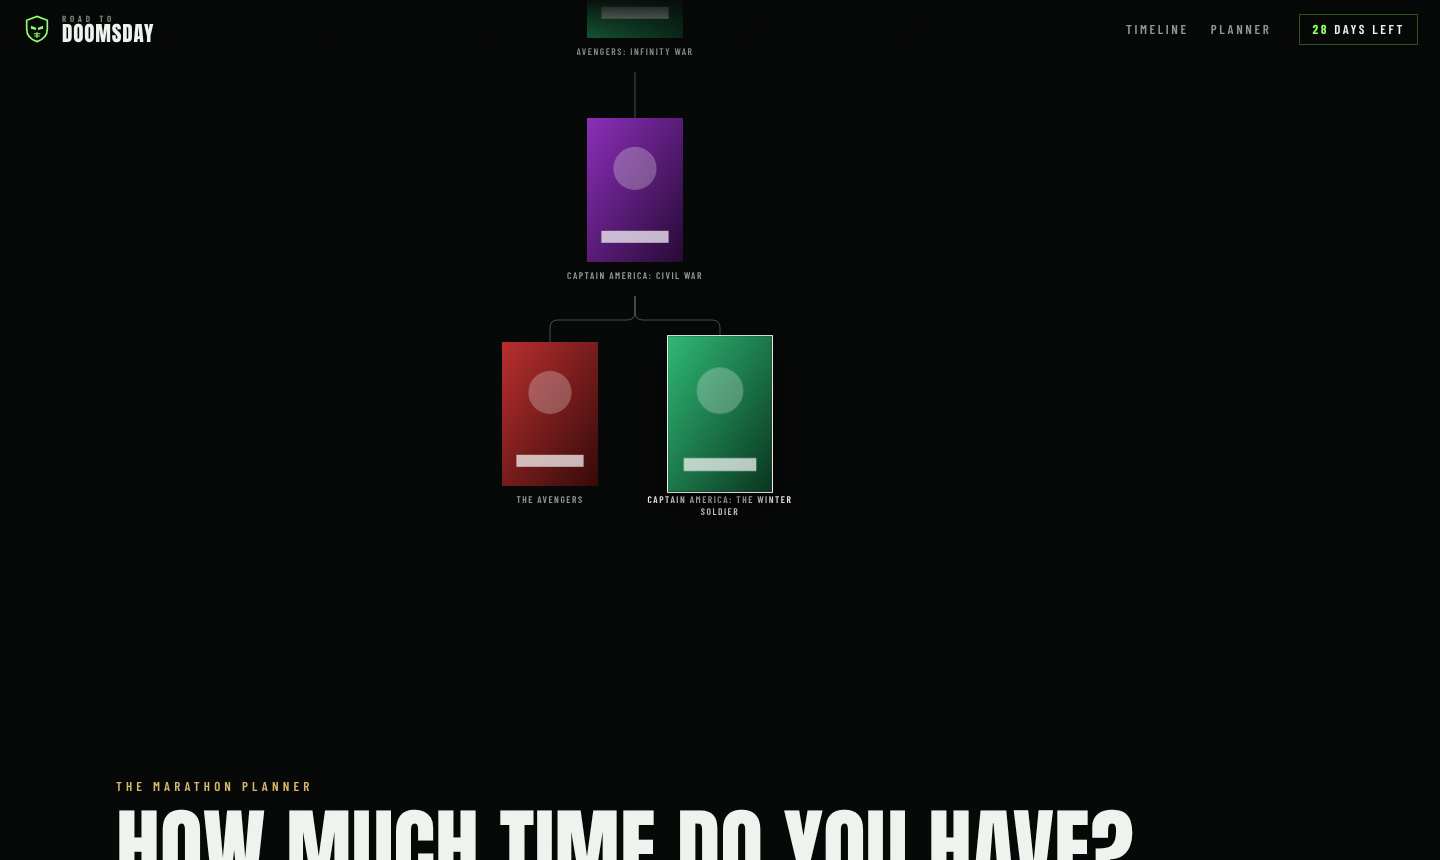
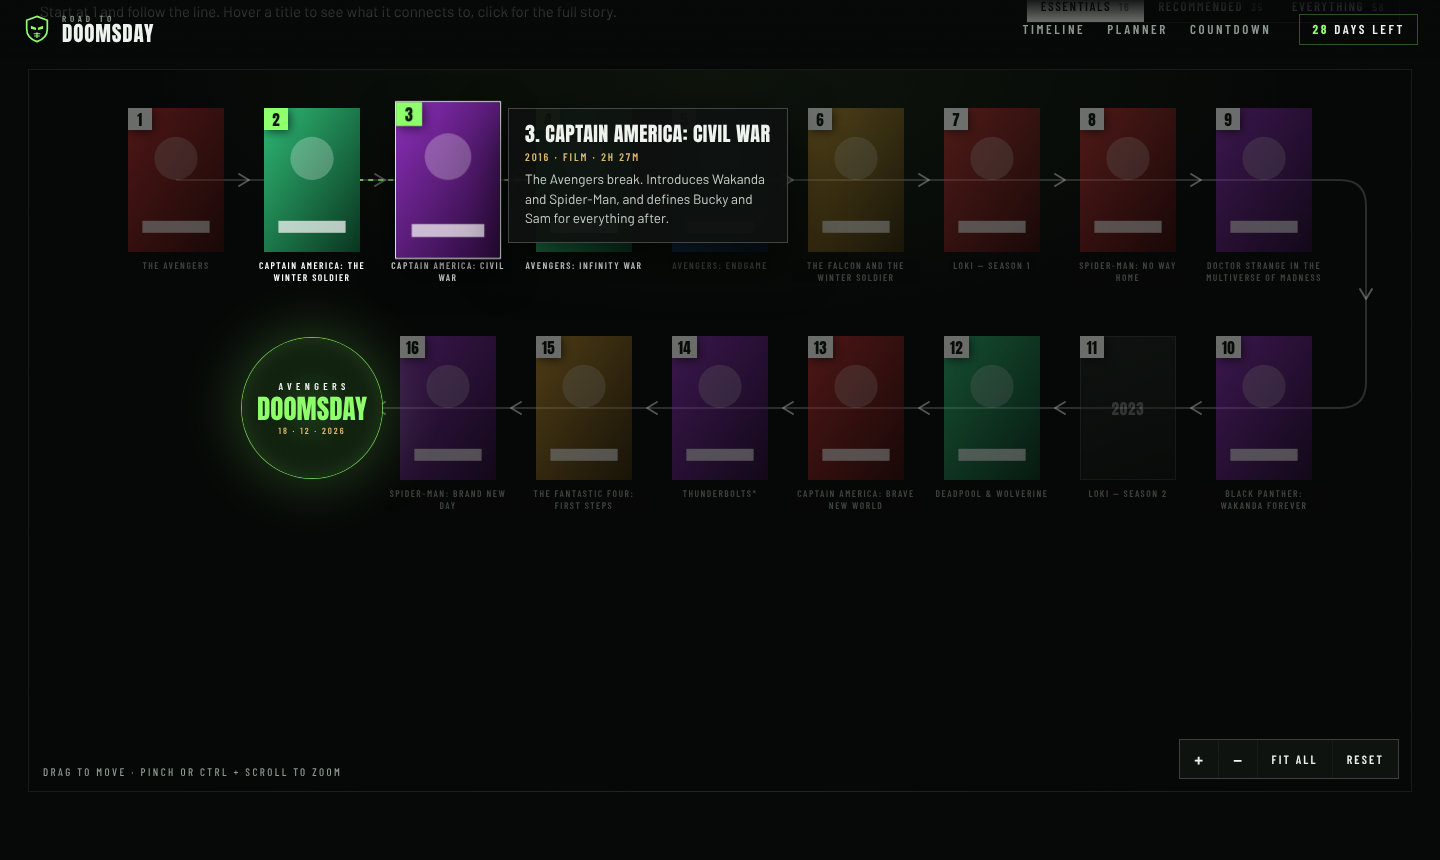
Map is now one numbered road in watch order; story links on hover
Claude-Session: https://claude.ai/code/session_017rtG2dztGkZ4S7sDU2kgCq

diff --git a/src/components/TimelineMap.tsx b/src/components/TimelineMap.tsx
@@ -1,5 +1,5 @@
 import { useEffect, useLayoutEffect, useMemo, useRef, useState } from "react";
-import { BY_ID, DOOM_ID, NEXT, TITLES, Title, fmtMin } from "../data";
+import { BY_ID, DOOM_ID, TITLES, Title, fmtMin, parentsOf } from "../data";
 import type { Tier } from "../App";
 import { Poster, usePosters } from "../posters";
 
@@ -18,22 +18,28 @@ const VIEWS: { tier: Tier; label: string }[] = [
   { tier: "recommended", label: "Recommended" },
   { tier: "all", label: "Everything" },
 ];
-const ORDER = Object.fromEntries(TITLES.map((t, i) => [t.id, i]));
 const tierFor = (t: Title): Tier => (t.imp >= 7 ? "essential" : t.imp >= 4 ? "recommended" : "all");
 
-function useViewport() {
-  const [v, setV] = useState({ w: window.innerWidth, h: window.innerHeight });
-  useEffect(() => {
-    const on = () => setV({ w: window.innerWidth, h: window.innerHeight });
-    window.addEventListener("resize", on);
-    return () => window.removeEventListener("resize", on);
-  }, []);
-  return v;
+const LEAF_W = 136, PW = 96, PH = 144, LABEL = 34;
+const ROW_H = PH + LABEL + 50;
+const SIDE = 46; // room at each edge for the road to turn around
+const DOOM_R = 70;
+
+function useStageWidth(ref: React.RefObject<HTMLDivElement>) {
+  const [w, setW] = useState(1200);
+  useLayoutEffect(() => {
+    const el = ref.current!;
+    const ro = new ResizeObserver(() => setW(el.clientWidth));
+    ro.observe(el);
+    setW(el.clientWidth);
+    return () => ro.disconnect();
+  }, [ref]);
+  return w;
 }
 
 type Pt = [number, number];
-/** A right-angled connector through `pts`, with softened corners. */
-function elbow(pts: Pt[], r = 8) {
+/** A path through `pts` with rounded corners. */
+function rounded(pts: Pt[], r: number) {
   let d = `M${pts[0][0]} ${pts[0][1]}`;
   for (let i = 1; i < pts.length - 1; i++) {
     const [px, py] = pts[i - 1], [cx, cy] = pts[i], [nx, ny] = pts[i + 1];
@@ -47,8 +53,9 @@ function elbow(pts: Pt[], r = 8) {
 }
 
 export function TimelineMap({ selected, focus, onSelect, watched, tier, setTier }: Props) {
-  const vp = useViewport();
   const posters = usePosters();
+  const stage = useRef<HTMLDivElement>(null);
+  const stageW = useStageWidth(stage);
   const [hover, setHover] = useState<string | null>(null);
   const [card, setCard] = useState<{ id: string; x: number; y: number; flip: boolean } | null>(null);
   const enter = (id: string, el: HTMLElement) => {
@@ -63,89 +70,53 @@ export function TimelineMap({ selected, focus, onSelect, watched, tier, setTier 
     return () => window.removeEventListener("scroll", leave);
   }, []);
 
-  // ── Build the tree for this view ─────────────────────────────────────────
-  // Doomsday is the root on the right. Each title hangs off the next title on
-  // its road to Doomsday that is visible in this view.
-  const T = useMemo(() => {
-    const visible = new Set(
-      TITLES.filter((t) => t.id === DOOM_ID || (t.imp >= MIN_IMP[tier] && NEXT[t.id])).map((t) => t.id)
-    );
-    const parent: Record<string, string> = {};
-    const kids: Record<string, string[]> = {};
-    for (const id of visible) {
-      if (id === DOOM_ID) continue;
-      let n = NEXT[id];
-      while (n && !visible.has(n)) n = NEXT[n];
-      parent[id] = n || DOOM_ID;
-      (kids[parent[id]] ||= []).push(id);
-    }
-    for (const k of Object.values(kids)) k.sort((a, b) => ORDER[a] - ORDER[b]);
-
-    // Depth-first: leaves take the next free row, parents sit between their children.
-    const row: Record<string, number> = {};
-    const dist: Record<string, number> = { [DOOM_ID]: 0 };
-    let rows = 0, maxDist = 0;
-    const place = (id: string) => {
-      const c = kids[id] || [];
-      for (const k of c) { dist[k] = dist[id] + 1; maxDist = Math.max(maxDist, dist[k]); place(k); }
-      row[id] = c.length ? (row[c[0]] + row[c[c.length - 1]]) / 2 : rows++;
-    };
-    place(DOOM_ID);
-
-    const side = tier === "all" ? TITLES.filter((t) => t.id !== DOOM_ID && !NEXT[t.id]) : [];
-    // Watch order: release order among the titles shown in this view.
-    const num: Record<string, number> = {};
-    let n = 0;
-    for (const t of TITLES) if (t.id !== DOOM_ID && visible.has(t.id)) num[t.id] = ++n;
-    return { visible, parent, row, dist, rows, cols: maxDist + 1, side, num };
-  }, [tier]);
-
-  // ── Sizes ────────────────────────────────────────────────────────────────
-  // The tree grows upward: Doomsday at the top, each road climbing to it.
+  // ── The road ─────────────────────────────────────────────────────────────
+  // One line, in watch order: 1 → 2 → 3 … → Doomsday. It runs left to right,
+  // turns at the edge, and comes back on the next row.
   const G = useMemo(() => {
-    // Fixed sizes: the canvas is zoomed to fit, the tree is not squeezed.
-    const leafW = 132;
-    const pw = 96;
-    const ph = Math.round(pw * 1.5);
-    const label = 34; // room for two lines of title under a poster
-    const levelH = ph + label + 46;
-    const doomR = 78;
-    const top = doomR * 2 + 50;
-    const width = leafW * T.rows;
-    const height = top + levelH * (T.cols - 1);
-    const x = (id: string) => T.row[id] * leafW + leafW / 2;
-    // y is the top edge of a poster (for Doomsday, the centre of the circle).
-    const y = (id: string) => (id === DOOM_ID ? doomR + 4 : top + (T.dist[id] - 1) * levelH);
-    return { pw, ph, label, levelH, doomR, width, height, x, y, leafW };
-  }, [T]);
+    const list = TITLES.filter((t) => t.id !== DOOM_ID && t.imp >= MIN_IMP[tier]);
+    const stops = [...list.map((t) => t.id), DOOM_ID];
+    const cols = Math.max(3, Math.min(9, Math.floor((stageW - 56 - SIDE * 2) / LEAF_W)));
+    const cell = (i: number) => {
+      const r = Math.floor(i / cols), c = i % cols;
+      return { r, c: r % 2 ? cols - 1 - c : c };
+    };
+    const cx = (i: number) => SIDE + cell(i).c * LEAF_W + LEAF_W / 2;
+    const cy = (i: number) => cell(i).r * ROW_H + PH / 2 + 10; // middle of the poster
+    const rows = cell(stops.length - 1).r + 1;
+    const width = SIDE * 2 + cols * LEAF_W;
+    const height = rows * ROW_H;
 
-  // ── Highlight: a title's own road to Doomsday ────────────────────────────
+    // The line through every stop, looping round the edge between rows.
+    const pts: Pt[] = [];
+    const arrows: { x: number; y: number; a: number }[] = [];
+    for (let i = 0; i < stops.length; i++) {
+      pts.push([cx(i), cy(i)]);
+      if (i === stops.length - 1) break;
+      if (cell(i + 1).r === cell(i).r) {
+        arrows.push({ x: (cx(i) + cx(i + 1)) / 2, y: cy(i), a: cell(i).r % 2 ? 180 : 0 });
+      } else {
+        const edge = cell(i).r % 2 ? 12 : width - 12;
+        pts.push([edge, cy(i)], [edge, cy(i + 1)]);
+        arrows.push({ x: edge, y: (cy(i) + cy(i + 1)) / 2, a: 90 });
+      }
+    }
+    const index = Object.fromEntries(stops.map((id, i) => [id, i]));
+    return { list, stops, index, cx, cy, width, height, d: rounded(pts, 26), arrows };
+  }, [tier, stageW]);
+
+  // ── Hover: what this title connects to in the story ──────────────────────
   const active = hover ?? selected;
-  const road = useMemo(() => {
-    if (!active || !T.visible.has(active)) return null;
-    const s = new Set<string>();
-    for (let n: string | undefined = active; n; n = T.parent[n]) s.add(n);
-    return s;
-  }, [active, T]);
-
-  // ── Being sent to a title from the drawer ────────────────────────────────
-  useEffect(() => {
-    if (!focus) return;
-    const t = BY_ID[focus.id];
-    const need: Tier = !NEXT[t.id] && t.id !== DOOM_ID ? "all" : tierFor(t);
-    if (MIN_IMP[need] < MIN_IMP[tier]) { setTier(need); return; }
-    const el = stage.current;
-    if (!el || !T.visible.has(t.id)) return;
-    const k = Math.max(viewRef.current.k, 0.7);
-    setView({ k, x: el.clientWidth / 2 - G.x(t.id) * k, y: el.clientHeight / 2 - (G.y(t.id) + G.ph / 2) * k });
-    el.scrollIntoView({ behavior: "smooth", block: "nearest" });
-    // eslint-disable-next-line react-hooks/exhaustive-deps
-  }, [focus, tier]);
+  const links = useMemo(() => {
+    if (!active || !(active in G.index)) return null;
+    const out = BY_ID[active].to.filter((n) => n in G.index);
+    const into = parentsOf(active).filter((n) => n in G.index);
+    return { set: new Set([active, ...out, ...into]), pairs: [...out.map((n) => [active, n]), ...into.map((n) => [n, active])] };
+  }, [active, G]);
 
   // ── Pan and zoom ─────────────────────────────────────────────────────────
   // The tree sits on a canvas: drag to move it, pinch / Ctrl+scroll / the
   // buttons to zoom. Plain scrolling is left alone so the page still scrolls.
-  const stage = useRef<HTMLDivElement>(null);
   const [view, setView] = useState({ x: 0, y: 0, k: 1 });
   const viewRef = useRef(view);
   viewRef.current = view;
@@ -159,10 +130,10 @@ export function TimelineMap({ selected, focus, onSelect, watched, tier, setTier 
     const w = el.clientWidth, h = el.clientHeight;
     const byW = (w - PAD * 2) / G.width, byH = (h - PAD * 2) / G.height;
     const k = Math.max(MIN_K, Math.min(1, whole ? Math.min(byW, byH) : byW));
-    // Centre on Doomsday horizontally; start from the top unless showing it all.
-    setView({ k, x: w / 2 - G.x(DOOM_ID) * k, y: whole ? Math.max(PAD, (h - G.height * k) / 2) : PAD });
+    // Centred, starting from the top (number 1) unless showing it all.
+    setView({ k, x: (w - G.width * k) / 2, y: whole ? Math.max(PAD, (h - G.height * k) / 2) : PAD });
   };
-  useLayoutEffect(() => fit(false), [G, vp.w, vp.h]); // eslint-disable-line react-hooks/exhaustive-deps
+  useLayoutEffect(() => fit(false), [G]); // eslint-disable-line react-hooks/exhaustive-deps
 
   const zoomAt = (cx: number, cy: number, factor: number) =>
     setView((v) => {
@@ -230,34 +201,30 @@ export function TimelineMap({ selected, focus, onSelect, watched, tier, setTier 
     }
   };
 
-  const count = (t: Tier) => TITLES.filter((x) => x.id !== DOOM_ID && x.imp >= MIN_IMP[t] && (t === "all" || NEXT[x.id])).length;
+  // ── Being sent to a title from the drawer ────────────────────────────────
+  useEffect(() => {
+    if (!focus) return;
+    const t = BY_ID[focus.id];
+    const need = t.id === DOOM_ID ? tier : tierFor(t);
+    if (MIN_IMP[need] < MIN_IMP[tier]) { setTier(need); return; }
+    const el = stage.current;
+    const i = G.index[t.id];
+    if (!el || i === undefined) return;
+    const k = Math.max(viewRef.current.k, 0.7);
+    setView({ k, x: el.clientWidth / 2 - G.cx(i) * k, y: el.clientHeight / 2 - G.cy(i) * k });
+    el.scrollIntoView({ behavior: "smooth", block: "nearest" });
+    // eslint-disable-next-line react-hooks/exhaustive-deps
+  }, [focus, tier]);
 
-  const tile = (t: Title, style?: React.CSSProperties) => (
-    <button
-      key={t.id}
-      data-title={t.id}
-      className={`tile${road?.has(t.id) ? " lit" : ""}${selected === t.id ? " sel" : ""}${watched.has(t.id) ? " seen" : ""}`}
-      style={{ ...style, ["--pw" as string]: `${G.pw}px`, ["--ph" as string]: `${G.ph}px`, ["--tw" as string]: `${Math.round(G.leafW - 8)}px` }}
-      onMouseEnter={(e) => { if (!dragged.current) enter(t.id, e.currentTarget.querySelector(".art") as HTMLElement); }}
-      onMouseLeave={leave}
-      onClick={() => onSelect(selected === t.id ? null : t.id)}
-    >
-      <span className="art">
-        <i>{t.year}</i>
-        {T.num[t.id] && <em className="num" aria-label={`Watch number ${T.num[t.id]}`}>{T.num[t.id]}</em>}
-        <Poster src={t.poster || posters[t.id]} />
-        {watched.has(t.id) && <u aria-label="Watched">✓</u>}
-      </span>
-      <b>{t.title}</b>
-    </button>
-  );
+  const count = (t: Tier) => TITLES.filter((x) => x.id !== DOOM_ID && x.imp >= MIN_IMP[t]).length;
+  const doomI = G.stops.length - 1;
 
   return (
     <section id="timeline" className="tree-section">
       <header className="tree-head">
         <div>
           <h2>Every road leads to Doom</h2>
-          <p>Watch in number order, starting at 1. Every line climbs to Doomsday — hover a title for the short version, click for the full story.</p>
+          <p>Start at 1 and follow the line. Hover a title to see what it connects to, click for the full story.</p>
         </div>
         <div className="seg" role="group" aria-label="How much to show">
           {VIEWS.map((v) => (
@@ -282,30 +249,42 @@ export function TimelineMap({ selected, focus, onSelect, watched, tier, setTier 
           zoomAt(e.clientX - r.left, e.clientY - r.top, 1.6);
         }}
       >
-        <div className={`tree${road ? " has-lit" : ""}`}
+        <div className={`tree${links ? " has-lit" : ""}`}
           style={{ width: G.width, height: G.height, transform: `translate3d(${view.x}px, ${view.y}px, 0) scale(${view.k})` }}>
           <svg className="edges" width={G.width} height={G.height} aria-hidden="true">
-            {[...T.visible].filter((id) => id !== DOOM_ID).map((id) => {
-              const p = T.parent[id];
-              // Up out of this poster, across, and up into the foot of the next one.
-              const sx = G.x(id), sy = G.y(id);
-              const ex = G.x(p), ey = p === DOOM_ID ? G.y(p) + G.doomR : G.y(p) + G.ph + G.label;
-              const my = sy - 22;
-              return (
-                <path key={id} className={`edge${road?.has(id) ? " on" : ""}`}
-                  d={elbow([[sx, sy], [sx, my], [ex, my], [ex, ey]])} />
-              );
-            })}
+            <path className="road-line" d={G.d} />
+            {G.arrows.map((a, i) => (
+              <path key={i} className="road-arrow" d="M-5 -6L5 0L-5 6" transform={`translate(${a.x} ${a.y}) rotate(${a.a})`} />
+            ))}
+            {links?.pairs.map(([from, to]) => (
+              <line key={`${from}>${to}`} className="link" x1={G.cx(G.index[from])} y1={G.cy(G.index[from])} x2={G.cx(G.index[to])} y2={G.cy(G.index[to])} />
+            ))}
           </svg>
 
-          {TITLES.filter((t) => T.visible.has(t.id) && t.id !== DOOM_ID).map((t) =>
-            tile(t, { position: "absolute", left: G.x(t.id), top: G.y(t.id) })
-          )}
+          {G.list.map((t, i) => (
+            <button
+              key={t.id}
+              data-title={t.id}
+              className={`tile${links?.set.has(t.id) ? " lit" : ""}${selected === t.id ? " sel" : ""}${watched.has(t.id) ? " seen" : ""}`}
+              style={{ left: G.cx(i), top: G.cy(i) - PH / 2 }}
+              onMouseEnter={(e) => { if (!dragged.current) enter(t.id, e.currentTarget.querySelector(".art") as HTMLElement); }}
+              onMouseLeave={leave}
+              onClick={() => onSelect(selected === t.id ? null : t.id)}
+            >
+              <span className="art">
+                <i>{t.year}</i>
+                <em className="num" aria-label={`Watch number ${i + 1}`}>{i + 1}</em>
+                <Poster src={t.poster || posters[t.id]} />
+                {watched.has(t.id) && <u aria-label="Watched">✓</u>}
+              </span>
+              <b>{t.title}</b>
+            </button>
+          ))}
 
           <button
             data-title={DOOM_ID}
-            className={`doom${road ? " lit" : ""}${selected === DOOM_ID ? " sel" : ""}`}
-            style={{ left: G.x(DOOM_ID), top: G.y(DOOM_ID), width: G.doomR * 2, height: G.doomR * 2 }}
+            className={`doom${links?.set.has(DOOM_ID) ? " lit" : ""}${selected === DOOM_ID ? " sel" : ""}`}
+            style={{ left: G.cx(doomI), top: G.cy(doomI), width: DOOM_R * 2, height: DOOM_R * 2 }}
             onMouseEnter={() => setHover(DOOM_ID)}
             onMouseLeave={leave}
             onClick={() => onSelect(selected === DOOM_ID ? null : DOOM_ID)}
@@ -327,18 +306,10 @@ export function TimelineMap({ selected, focus, onSelect, watched, tier, setTier 
 
       {card && !selected && (
         <aside className={`hover-card${card.flip ? " flip" : ""}`} style={{ left: card.x, top: card.y }} aria-hidden="true">
-          <b>{T.num[card.id] ? `${T.num[card.id]}. ` : ""}{BY_ID[card.id].title}</b>
+          <b>{G.index[card.id] + 1}. {BY_ID[card.id].title}</b>
           <span>{BY_ID[card.id].year} · {BY_ID[card.id].kind === "film" ? "Film" : BY_ID[card.id].kind === "series" ? "Series" : "Special"} · {fmtMin(BY_ID[card.id].min)}</span>
           <p>{BY_ID[card.id].why}</p>
         </aside>
-      )}
-
-      {T.side.length > 0 && (
-        <div className="side-roads">
-          <h3>Side roads</h3>
-          <p>Worth watching, but they don't feed into Doomsday.</p>
-          <div className="side-row">{T.side.map((t) => tile(t))}</div>
-        </div>
       )}
     </section>
   );

diff --git a/src/styles.css b/src/styles.css
@@ -166,13 +166,16 @@ h1, h2, h3, h4, p { margin: 0; }
 .stage-tools button:hover { background: #1c2520; }
 @media (max-width: 720px) { .stage-hint { display: none; } }
 .edges { position: absolute; left: 0; top: 0; pointer-events: none; }
-.edge { fill: none; stroke: rgba(255, 255, 255, 0.28); stroke-width: 1; transition: stroke 0.25s, opacity 0.25s; }
-.has-lit .edge { opacity: 0.35; }
-.has-lit .edge.on { opacity: 1; stroke: #fff; stroke-width: 1.5; }
+.road-line { fill: none; stroke: rgba(255, 255, 255, 0.5); stroke-width: 2; }
+.road-arrow { fill: none; stroke: #fff; stroke-width: 2; stroke-linecap: round; stroke-linejoin: round; }
+.link { stroke: var(--doom); stroke-width: 1.5; stroke-dasharray: 5 5; opacity: 0.9; animation: edgeflow 0.8s linear infinite; }
+@keyframes edgeflow { to { stroke-dashoffset: -10; } }
+.has-lit .road-line, .has-lit .road-arrow { opacity: 0.3; }
 
 /* A title: a poster with its name set small underneath, as on a family tree. */
-.tile { width: var(--tw, 120px); display: grid; justify-items: center; gap: 7px; text-align: center; transition: opacity 0.25s; }
-.tree .tile { transform: translateX(-50%); }
+.tile { --pw: 96px; --ph: 144px; width: 128px; display: grid; justify-items: center; gap: 7px; text-align: center; transition: opacity 0.25s; }
+.tree .tile { position: absolute; transform: translateX(-50%); }
+.tree .tile b { background: #050706; padding: 0 4px; }
 .art {
   position: relative; width: var(--pw); height: var(--ph); overflow: hidden; display: grid; place-items: center;
   background: linear-gradient(160deg, #1c2320, #0c100e);
@@ -192,7 +195,8 @@ h1, h2, h3, h4, p { margin: 0; }
 .tile:hover, .tile.sel { z-index: 3; }
 .tile:hover .art, .tile.sel .art { transform: scale(1.08); box-shadow: 0 0 0 1px #fff, 0 14px 34px rgba(0, 0, 0, 0.7); }
 .tile:hover b, .tile.sel b, .tile.lit b { color: #fff; }
-.has-lit .tile:not(.lit) { opacity: 0.4; }
+.has-lit .tile:not(.lit) .art { filter: brightness(0.4) saturate(0.6); }
+.has-lit .tile:not(.lit) b { color: #4d5650; }
 
 .doom {
   position: absolute; transform: translate(-50%, -50%); border-radius: 50%;
@@ -219,11 +223,6 @@ h1, h2, h3, h4, p { margin: 0; }
 .trailer { display: inline-flex; align-items: center; gap: 10px; margin-top: 16px; padding: 10px 16px 10px 12px; border: 1px solid rgba(255, 255, 255, 0.25); font: 700 13px/1 var(--cond); letter-spacing: 0.18em; text-transform: uppercase; transition: background 0.2s, color 0.2s; }
 .trailer i { font-style: normal; font-size: 11px; }
 .trailer:hover { background: var(--ink); color: #08100b; }
-
-.side-roads { margin: 40px clamp(16px, 3vw, 40px) 0; padding-top: 30px; border-top: 1px solid var(--line); }
-.side-roads h3 { font: 400 24px/1 var(--display); text-transform: uppercase; letter-spacing: 0.04em; }
-.side-roads p { margin: 8px 0 24px; color: var(--dim); font-size: 14px; }
-.side-row { display: flex; flex-wrap: wrap; gap: 22px 10px; }
 
 /* ── Drawer ──────────────────────────────────────────────────────────────── */
 .drawer {
